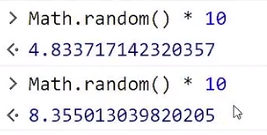
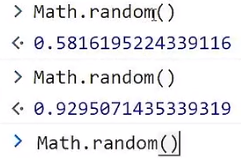
GITBOOK-2: No subject

diff --git a/n-aleatorio-math.random.md b/n-aleatorio-math.random.md
@@ -1,14 +1,20 @@
 ---
-description: Math.random gera número aleatórios
+description: Math.random gera número aleatórios.
 ---
 
 # N° aleatório (Math.random)
+
+<figure><img src=".gitbook/assets/image.png" alt=""><figcaption></figcaption></figure>
+
+Lembrando que se eu multiplicar por algum número(ex: 10), será definido que os números aleatórios serão até o penúltimo(9), pois nao inclui o número multiplicado (10), e para inclui-lo pracisa somar 1. exemplo:&#x20;
+
+parseInt (Math.random() \* 10 ) +1;
 
 conforme o exemplo abaixo, ele gera números extensos:
 
 <div align="left">
 
-<figure><img src=".gitbook/assets/image.png" alt=""><figcaption></figcaption></figure>
+<figure><img src=".gitbook/assets/image (1).png" alt=""><figcaption></figcaption></figure>
 
 </div>
 
@@ -16,7 +22,7 @@ agora, para que tenhamos um numero inteiro antes do ponto, precisamos multiplica
 
 <div align="left">
 
-<figure><img src=".gitbook/assets/image (1).png" alt=""><figcaption></figcaption></figure>
+<figure><img src=".gitbook/assets/image (1) (1).png" alt=""><figcaption></figcaption></figure>
 
 </div>
 

diff --git a/imprimindo-valores.md b/imprimindo-valores.md
@@ -2,7 +2,7 @@
 
 para imprimir algo na tela basta usar o prompt:\
 \
-![](<.gitbook/assets/image (1) (1).png>)
+![](<.gitbook/assets/image (1) (1) (1).png>)
 
 Para imprimir algo console, basta usar o console.log:\
 \
